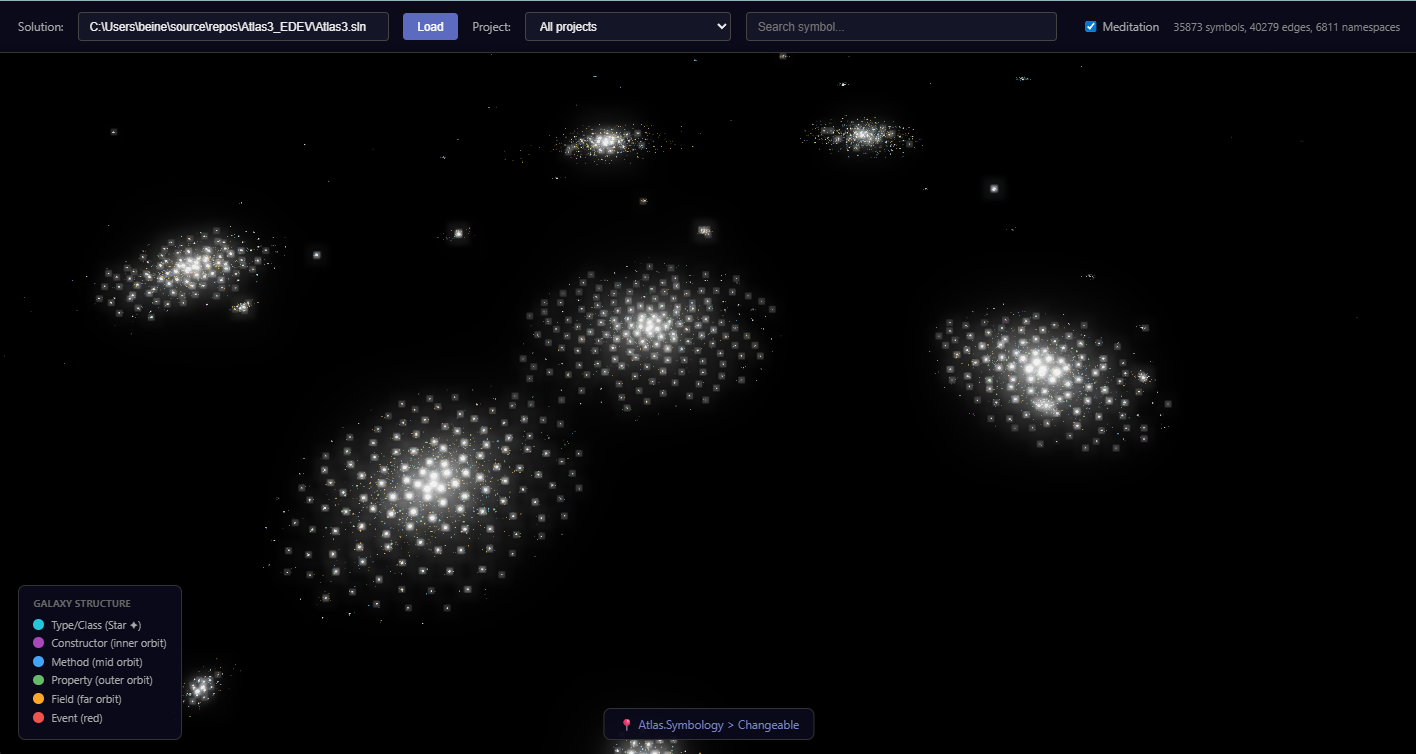
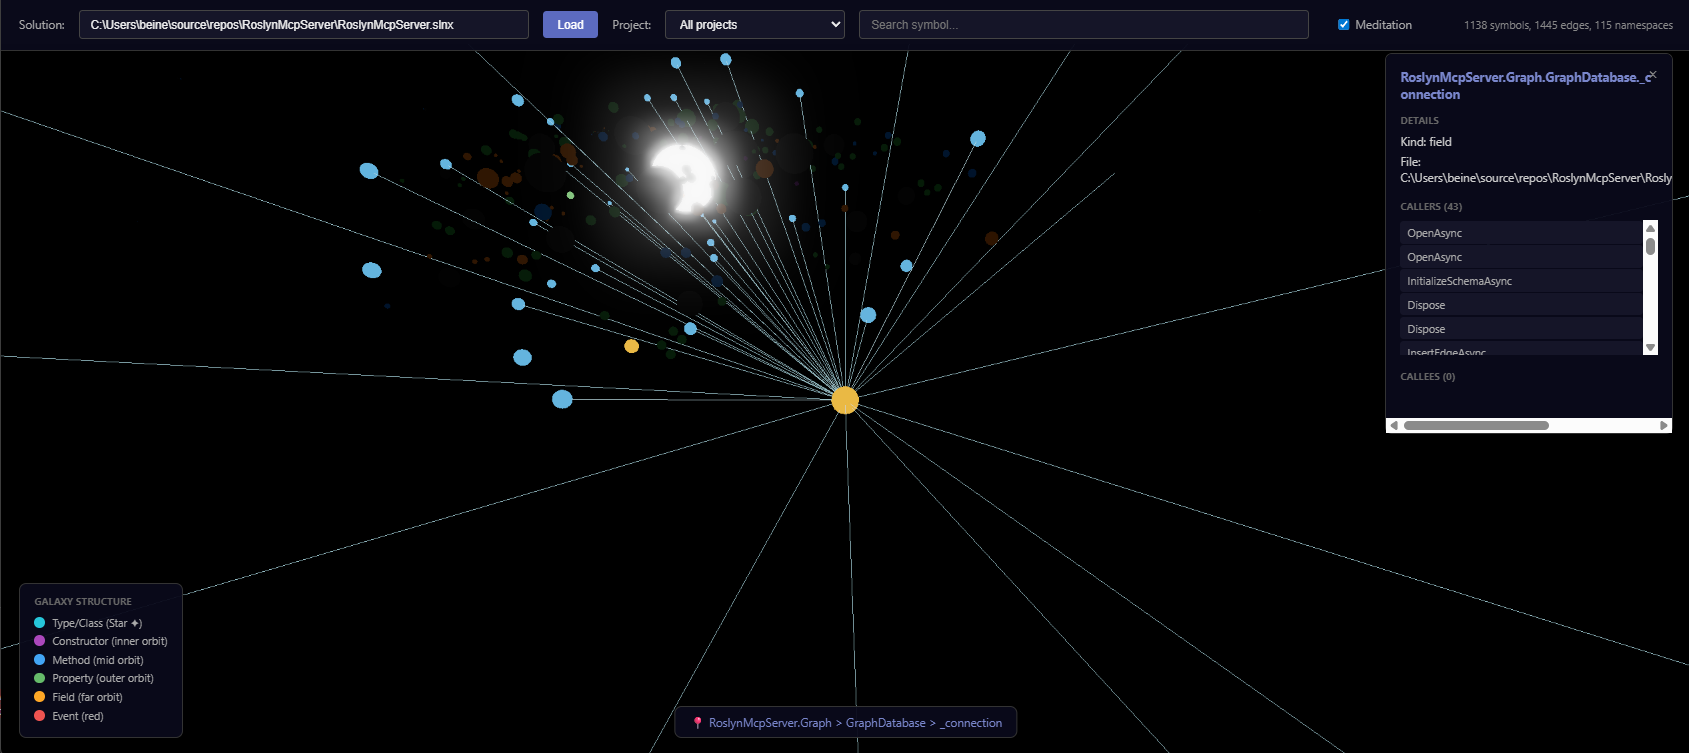
screenshot upated

diff --git a/.claude/plans/architect-review.md b/.claude/plans/architect-review.md
@@ -1,0 +1,323 @@
+# Architecture Review: RoslynMcpServer
+**Date:** 2026-01-26
+**Reviewer:** Claude (Principal Engineer Analysis)
+
+## Executive Summary
+
+RoslynMcpServer is a well-structured MCP (Model Context Protocol) server providing C# code analysis via Microsoft Roslyn. The solution follows a clean layered architecture with a separate Graph project for persistence and the main project for tool registration and analysis.
+
+**Key Strengths:**
+- Good separation of concerns with Graph layer isolated
+- Effective use of partial classes for organizing large service classes
+- Comprehensive test coverage with dedicated test project
+- Knowledge base with semantic search capabilities
+
+**Critical Concerns:**
+1. **Security vulnerability** in GraphApi (path injection) - P0
+2. **Excessive coupling** in SolutionAnalyzerService (224 types) and RoslynTools (116 types)
+3. **High cyclomatic complexity** in several methods (up to 52)
+4. **214 dead code items** indicating incomplete refactoring
+5. **Performance issues** with repeated array/JSON allocations
+
+---
+
+## Metrics
+
+| Metric | Value |
+|--------|-------|
+| Projects | 4 |
+| Source files | 85 |
+| Symbols in call graph | 1,822 |
+| Edges (calls/reads/accesses) | 3,983 |
+| Total warnings | 2,260 |
+| Dead code items | 214 |
+| Knowledge entries created | 7 |
+
+---
+
+## Architecture Overview
+
+```
+                    ┌─────────────────────┐
+                    │  RoslynMcpServer    │
+                    │  (MCP Tools)        │
+                    ├─────────────────────┤
+                    │ - RoslynTools       │
+                    │ - SolutionAnalyzer  │
+                    │ - HookValidation    │
+                    │ - Instructions      │
+                    └─────────┬───────────┘
+                              │
+              ┌───────────────┼───────────────┐
+              │               │               │
+              ▼               ▼               ▼
+┌─────────────────┐  ┌───────────────┐  ┌────────────────┐
+│ RoslynMcpServer │  │ RoslynMcpServer│  │ RoslynMcpServer│
+│ .Graph          │  │ .Tests         │  │ .Web           │
+├─────────────────┤  ├───────────────┤  ├────────────────┤
+│ - GraphDatabase │  │ - xUnit tests │  │ - GraphApi     │
+│ - GraphAnalyzer │  │               │  │ - Web UI       │
+│ - Knowledge DB  │  │               │  │                │
+└─────────────────┘  └───────────────┘  └────────────────┘
+```
+
+---
+
+## Critical Findings (P0)
+
+### 1. [SECURITY] File Path Injection in GraphApi
+
+**Location:** `RoslynMcpServer.Web/GraphApi.cs:137, 215`
+**Severity:** P0 - CRITICAL
+**Impact:** Attackers can probe file system, potential information disclosure
+
+**Problem:**
+```csharp
+// User input flows directly to File.Exists()
+var solutionPath = context.Request.Query["path"];
+if (File.Exists(solutionPath)) // VULNERABLE
+```
+
+**Implementation Steps:**
+1. Add path validation helper method
+2. Normalize and verify paths are within allowed directories
+3. Add unit tests for path traversal attempts
+
+**Code Fix:**
+```csharp
+private static bool IsValidSolutionPath(string path, out string normalizedPath)
+{
+    normalizedPath = null;
+    if (string.IsNullOrEmpty(path)) return false;
+
+    var fullPath = Path.GetFullPath(path);
+    // Only allow .sln/.slnx files
+    if (!fullPath.EndsWith(".sln", StringComparison.OrdinalIgnoreCase) &&
+        !fullPath.EndsWith(".slnx", StringComparison.OrdinalIgnoreCase))
+        return false;
+
+    normalizedPath = fullPath;
+    return true;
+}
+```
+
+**Acceptance Criteria:**
+- [ ] Path traversal attempts rejected
+- [ ] Only .sln/.slnx files accepted
+- [ ] Security tests added
+
+---
+
+## High Priority (P1)
+
+### 2. Reduce SolutionAnalyzerService Coupling (224 → <96 types)
+
+**Location:** `src/SolutionAnalyzerService.*.cs`
+**Severity:** P1
+**Impact:** Hard to test, modify, and understand
+
+**Implementation Steps:**
+1. Extract `CodeFixService` (ApplyCodeFixAsync, BatchApplyCodeFixAsync, GetCodeFixProviders)
+2. Extract `SymbolSearchService` (SearchSymbolsAsync, FindReferencesAsync)
+3. Extract `DiagnosticsService` (GetDiagnosticsAsync, RunAnalyzersAsync)
+4. Keep SolutionAnalyzerService as facade/coordinator
+
+**Acceptance Criteria:**
+- [ ] Each extracted service < 50 types coupling
+- [ ] All existing tests pass
+- [ ] No new warnings introduced
+
+---
+
+### 3. Reduce BatchApplyCodeFixAsync Complexity (52 → <26)
+
+**Location:** `src/SolutionAnalyzerService.BatchCodeFix.cs:16`
+**Severity:** P1
+**Impact:** Hard to maintain, test, and debug
+
+**Implementation Steps:**
+1. Extract diagnostic collection into separate method
+2. Extract fix application loop into separate method
+3. Extract result aggregation into separate method
+4. Consider using a pipeline pattern
+
+**Acceptance Criteria:**
+- [ ] Cyclomatic complexity < 26
+- [ ] All existing tests pass
+- [ ] Logic unchanged
+
+---
+
+### 4. Fix IDisposable Implementation (CA1816)
+
+**Locations:**
+- `src/HookValidationServer.cs:178`
+- `RoslynMcpServer.Tests/Services/SetupHooksTests.cs:17`
+- `RoslynMcpServer.Tests/Graph/GraphDatabaseTests.cs:556`
+
+**Implementation Steps:**
+1. Add `GC.SuppressFinalize(this)` to each Dispose method
+2. Consider implementing full dispose pattern if needed
+
+**Code Fix:**
+```csharp
+public void Dispose()
+{
+    // Existing disposal logic
+    _listener?.Stop();
+    _listener?.Close();
+
+    // Add this line
+    GC.SuppressFinalize(this);
+}
+```
+
+**Acceptance Criteria:**
+- [ ] CA1816 warnings resolved
+- [ ] No memory leaks in long-running scenarios
+
+---
+
+## Medium Priority (P2)
+
+### 5. Fix Constant Array Allocations (CA1861) - 92 occurrences
+
+**Impact:** Unnecessary GC pressure on every tool registration
+
+**Implementation Steps:**
+1. Run `roslyn_batch_apply_code_fixes(diagnosticId: "CA1861", preview: true)` to review
+2. Apply batch fix
+3. Review generated static fields for naming consistency
+
+**Acceptance Criteria:**
+- [ ] CA1861 count = 0
+- [ ] Static fields use consistent naming (e.g., `_toolParamX`)
+
+---
+
+### 6. Mark Static Members (CA1822) - 42 occurrences
+
+**Impact:** Methods not using instance state should be static for clarity
+
+**Implementation Steps:**
+1. Run `roslyn_batch_apply_code_fixes(diagnosticId: "CA1822", preview: true)`
+2. Review and apply fixes
+3. Verify no breaking changes to public API
+
+**Acceptance Criteria:**
+- [ ] CA1822 count = 0
+- [ ] No public API changes
+
+---
+
+### 7. Remove Unnecessary Usings (CS8019) - 41 occurrences
+
+**Implementation Steps:**
+1. Run `roslyn_batch_apply_code_fixes(diagnosticId: "CS8019")`
+
+**Acceptance Criteria:**
+- [ ] CS8019 count = 0
+- [ ] Build succeeds
+
+---
+
+### 8. Cache JsonSerializerOptions (CA1869) - 4 occurrences
+
+**Locations:**
+- `src/RoslynTools.SetupHooks.cs:223`
+- `RoslynMcpServer.Web/GraphApi.cs:91`
+
+**Implementation Steps:**
+1. Use existing `RoslynTools.JsonOptions` where accessible
+2. Create shared static options in GraphApi
+3. Update SetupHooksInProject to use shared instance
+
+**Acceptance Criteria:**
+- [ ] CA1869 count = 0
+- [ ] JSON output unchanged
+
+---
+
+## Low Priority (P3)
+
+### 9. Clean Up Dead Code (214 items)
+
+**Distribution:**
+- Models.CodeFix.cs: 39 items (mostly unused properties)
+- Various other files
+
+**Implementation Steps:**
+1. Review dead code report by file
+2. For properties: verify they're truly unused (not serialized)
+3. Remove or mark as used via attribute
+
+**Acceptance Criteria:**
+- [ ] Dead code count < 50
+- [ ] No functional regression
+
+---
+
+### 10. Reduce ExtractMethodAsync Complexity (39 → <26)
+
+**Location:** `src/SolutionAnalyzerService.ExtractMethod.cs:15`
+
+**Implementation Steps:**
+1. Extract data flow analysis into helper
+2. Extract syntax generation into helper
+3. Simplify main method to orchestration
+
+---
+
+### 11. Reduce Tool Registration Complexity
+
+**Affected Methods:**
+- RegisterFindSymbolTool (30)
+- RegisterAddTypeTool (29)
+- QueryGraphAsync (27)
+- RegisterKnowledgeAddTool (27)
+
+**Implementation Steps:**
+1. Create `ToolRegistrationBuilder` helper class
+2. Extract parameter validation into reusable methods
+3. Use fluent API for tool configuration
+
+---
+
+## Recommended Sequence
+
+1. **Week 1 - Security & Quick Wins**
+   - Fix path injection in GraphApi (P0)
+   - Run batch fixes for CA1816, CS8019
+
+2. **Week 2 - Performance**
+   - Run batch fixes for CA1861, CA1822
+   - Fix JsonSerializerOptions caching
+
+3. **Week 3-4 - Refactoring**
+   - Extract CodeFixService from SolutionAnalyzerService
+   - Reduce BatchApplyCodeFixAsync complexity
+
+4. **Ongoing**
+   - Clean up dead code
+   - Reduce remaining complexity warnings
+
+---
+
+## Knowledge Base Entries Created
+
+| ID | Category | Title |
+|----|----------|-------|
+| 3 | architecture | Solution Structure Overview - Architecture Review Jan 2026 |
+| 4 | gotcha | High coupling in core classes |
+| 5 | security | SECURITY: File path injection in GraphApi |
+| 6 | performance | Performance issues: Constant arrays and JsonSerializerOptions |
+| 7 | workaround | Batch-fixable diagnostics available |
+
+---
+
+## Next Steps
+
+1. Create GitHub issue for P0 security fix
+2. Schedule batch fixes as separate PR
+3. Plan refactoring sprints for coupling reduction
+4. Set up CI to track warning count trend
